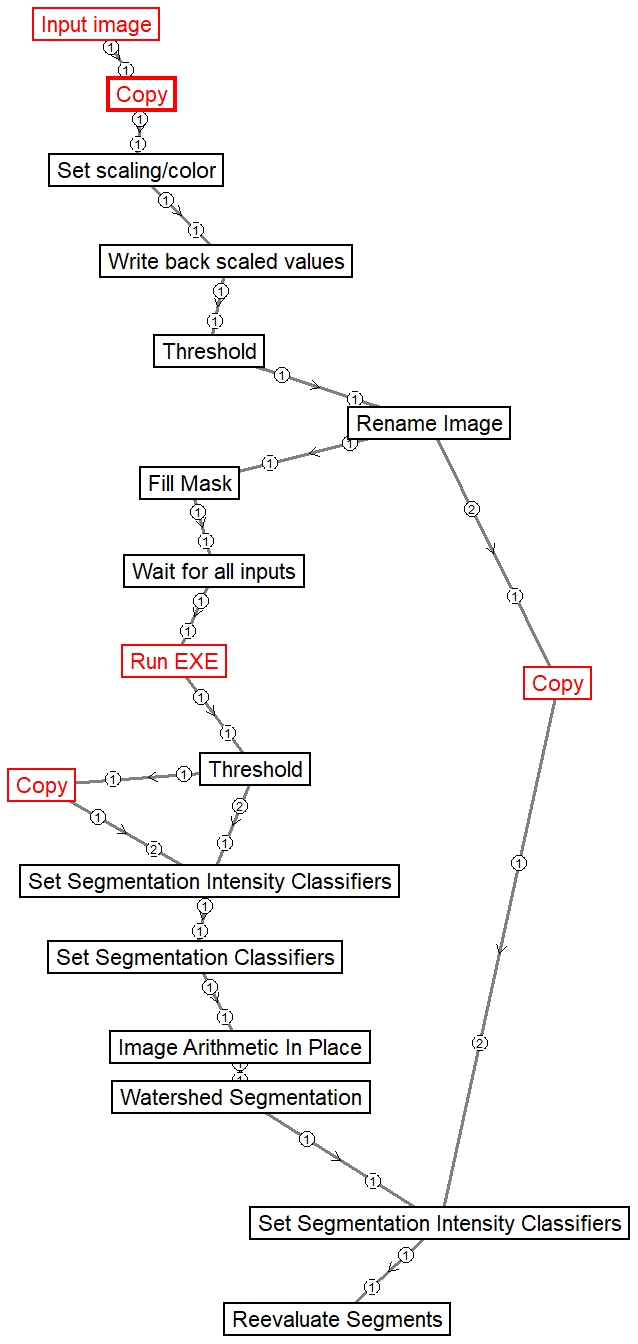
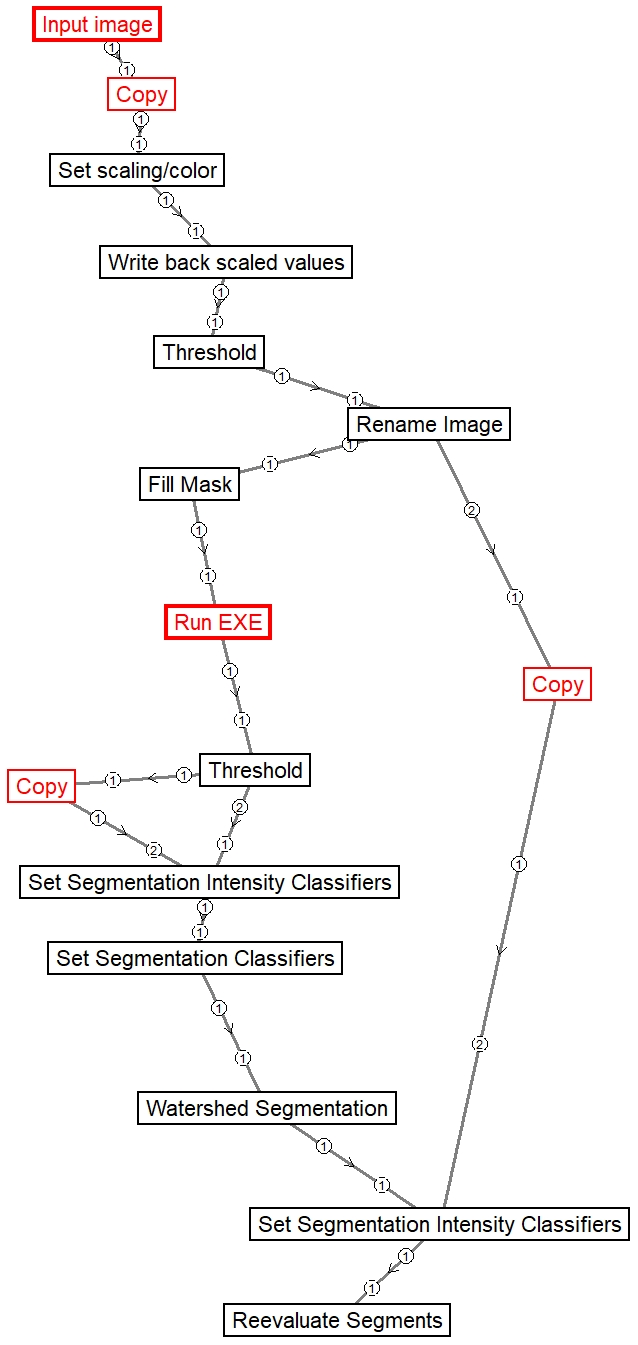
Documentation

diff --git a/Segment_mitochondria_with_MoDL.md b/Segment_mitochondria_with_MoDL.md
@@ -1,24 +1,27 @@
 # Segment mitochondria with MoDL
 ## Description
-This pipeline uses MoDL to segment mitochondria a single channel. 
+This pipeline uses MoDL to segment mitochondria in a single channel. 
+Download orignal model (super resolution) from: https://zenodo.org/records/6481291
+Download retrained model (spinning disc confocal, 0.18um/pixel) from: https://github.com/gerencserlab/HTS-MoDL/releases/download/U-RNet%2B_1x_50epochs/U-RNet+_1x_50epochs.hdf5
+
+To cite authors of MoDL: Ding, Yang, Jintao Li, Jiaxin Zhang, et al. “Mitochondrial Segmentation and Function Prediction in Live-Cell Images with Deep Learning.” Nature Communications 16, no. 1 (2025): 743. https://doi.org/10.1038/s41467-025-55825-x.
 
 
 ## Parameters
 | # | Name | Type | Description |
 |---|------|------|-------------|
-| 0 | Image type for intensity scaling | Text | Only fluorescence images are rescaled, brightfield ones are used as are. Inverted brightfield images will be rescaled. |
-| 1 | SRRF: Scale maximum (percentile) | Real | This percentile of the image histogram sets the intensity value where the maximum of the Look Up Table (LUT) is scaled. Use -1 to override this with fixed value set below at "Max value". |
-| 2 | SRRF: Gamma | Real | A gamma value >1 makes image supralinearly brighter, a gamma value <1 makes the image sublinearly darker. |
-| 3 | SRRF: Smooth factor | Real | Wiener filter noise level (0-1). Higher value provides more smoothing. Set zero for no smoothing. |
-| 4 | Path and filename or URL (*.exe,*.bat,"command && command") | Text | filename, without arguments. Filename with full path, or filename only if it is in the environment path. Alternatively, use one or more command prompt expressions with arguments concatenated by && and the whole expression quoted with ". |
-| 5 | Argument 2 (--overlap) | Text | Argument entries will be interspersed with the "Argument" entry |
-| 6 | Argument 3 (--scale) | Text | Argument entries will be interspersed with the "Argument" entry |
-| 7 | Argument 4 (--batch-size) | Text | Argument entries will be interspersed with the "Argument" entry |
-| 8 | Argument 5 (--output-original-size) | Text | Argument entries will be interspersed with the "Argument" entry |
+| 0 | Path and filename or URL (*.exe,*.bat,"command && command") | Text | filename, without arguments. Filename with full path, or filename only if it is in the environment path. Alternatively, use one or more command prompt expressions with arguments concatenated by && and the whole expression quoted with ". |
+| 1 | Argument 2 (--overlap) | Text | Overlap of 512x512 patches to avoid edge artifacts |
+| 2 | Argument 3 (--scale) | Text | Up or down scaling to match training and inference resolution |
+| 3 | Argument 4 (--batch-size) | Text | Batch size (mind your VRAM!) |
+| 4 | Argument 5 (--output-original-size) | Text | Return original or scaled sized image |
+| 5 | Argument 7 (--weights) | Text | Path to downloaded network weight *.hdf5 file |
+| 6 | Minimum probability (0-255 range) | Real | Mean of pixel intensities in Image B. Use 0 for not checking |
+| 7 | Minimum intensity (0-255 range) | Real | Mean of pixel intensities in Image B. Use 0 for not checking |
 
 
 ## Structure
 ![structure](/img/Segment_mitochondria_with_MoDL.jpg)
 
-[Image Analyst MKII](https://www.imageanalyst.net) pipeline - saved by V4.3.5 (build 1038)
+[Image Analyst MKII](https://www.imageanalyst.net) pipeline - saved by V4.3.6 (build 1042)
 

diff --git a/README.md b/README.md
@@ -6,15 +6,24 @@ This repository provides MoDL Server for Image Analyst MKII. MoDL server fast ca
 
 To cite authors of MoDL: Ding, Yang, Jintao Li, Jiaxin Zhang, et al. “Mitochondrial Segmentation and Function Prediction in Live-Cell Images with Deep Learning.” Nature Communications 16, no. 1 (2025): 743. https://doi.org/10.1038/s41467-025-55825-x.
 
+## List of pipelines
+* [Install MoDL Environment](install_MoDL_environment.md)
+* [Start MoDL Server](MoDL_server.md)
+* [Segment mitochondria with MoDL](Segment_mitochondria_with_MoDL.md)
+
 ## Installation
-1. Clone this git in Image Analyst MKII by Edit/Download and Manage Pipelines from GitHub. 
+1. Clone this git in [Image Analyst MKII](https://www.imageanalyst.net/download.html) by Edit/Download and Manage Pipelines from GitHub. 
 2. Press the "< > Code" button [above in this page](https://github.com/gerencserlab/HTS-MoDL/) and copy the URL of this git.
 3. Paste the URL in the URL field in the Connect to Git window in Image Analyst MKII.
 4. Press Download.
 5. The pipelines deposited here will appear in the middle section of the Pipelines main menu.
 6. Dowload retrained model [U-RNet+_1x_50epochs.hdf5](https://github.com/gerencserlab/HTS-MoDL/releases/download/U-RNet%2B_1x_50epochs/U-RNet+_1x_50epochs.hdf5)
-7. Launch Install... pipeleine
-8. Launch MoDL server pipleine before image analysis
+7. Install Python 3.10 from python.org
+8. [Install CUDA 11.8](https://developer.nvidia.com/cuda-11-8-0-download-archive?target_os=Windows&target_arch=x86_64&target_version=11&target_type=exe_local)
+9. [Install CuDNN 8](https://developer.download.nvidia.com/compute/cudnn/redist/cudnn/windows-x86_64/cudnn-windows-x86_64-8.9.7.29_cuda11-archive)
+10. Add CUDA and CuDNN to PATH
+11. [Install MoDL Environment](install_MoDL_environment.md)
+12. In every session, MODL Server need to be started with running this pipeline: [Start MoDL Server](MoDL_server.md)
 
 
 ## Description
@@ -209,7 +218,5 @@ Implement new features or fix existing issues by creating a pull request.
 ##License
 This project is covered under the GNU General Public 3.0 License.
 
-## List of pipelines
-* [Install MoDL Environment](install_MoDL_environment.md)
-* [Start MoDL Server](MoDL_server.md)
-* [Segment mitochondria with MoDL](Segment_mitochondria_with_MoDL.md)
+
+

diff --git a/install_MoDL_environment.md b/install_MoDL_environment.md
@@ -1,8 +1,9 @@
 # Install MoDL Environment
 ## Description
 Run this pipeline once to install environment and dependencies for MoDL
-Python 3.9 must be installed on the system for this.
+Python 3.10 must be installed on the system for this (install from python.org).
 Image Analyst may need to be run as administrator to do this.
+CUDA 11.8 and CUDNN 8 need to be installed an added to PATH to use GPU - see README.md
 
 ## Parameters
 | # | Name | Type | Description |
@@ -12,5 +13,5 @@ Image Analyst may need to be run as administrator to do this.
 ## Structure
 ![structure](/img/install_MoDL_environment.jpg)
 
-[Image Analyst MKII](https://www.imageanalyst.net) pipeline - saved by V4.3.5 (build 1038)
+[Image Analyst MKII](https://www.imageanalyst.net) pipeline - saved by V4.3.6 (build 1042)
 

diff --git a/MoDL_server.md b/MoDL_server.md
@@ -25,5 +25,5 @@ API fields:
 ## Structure
 ![structure](/img/MoDL_server.jpg)
 
-[Image Analyst MKII](https://www.imageanalyst.net) pipeline - saved by V4.3.5 (build 1038)
+[Image Analyst MKII](https://www.imageanalyst.net) pipeline - saved by V4.3.6 (build 1042)
 
